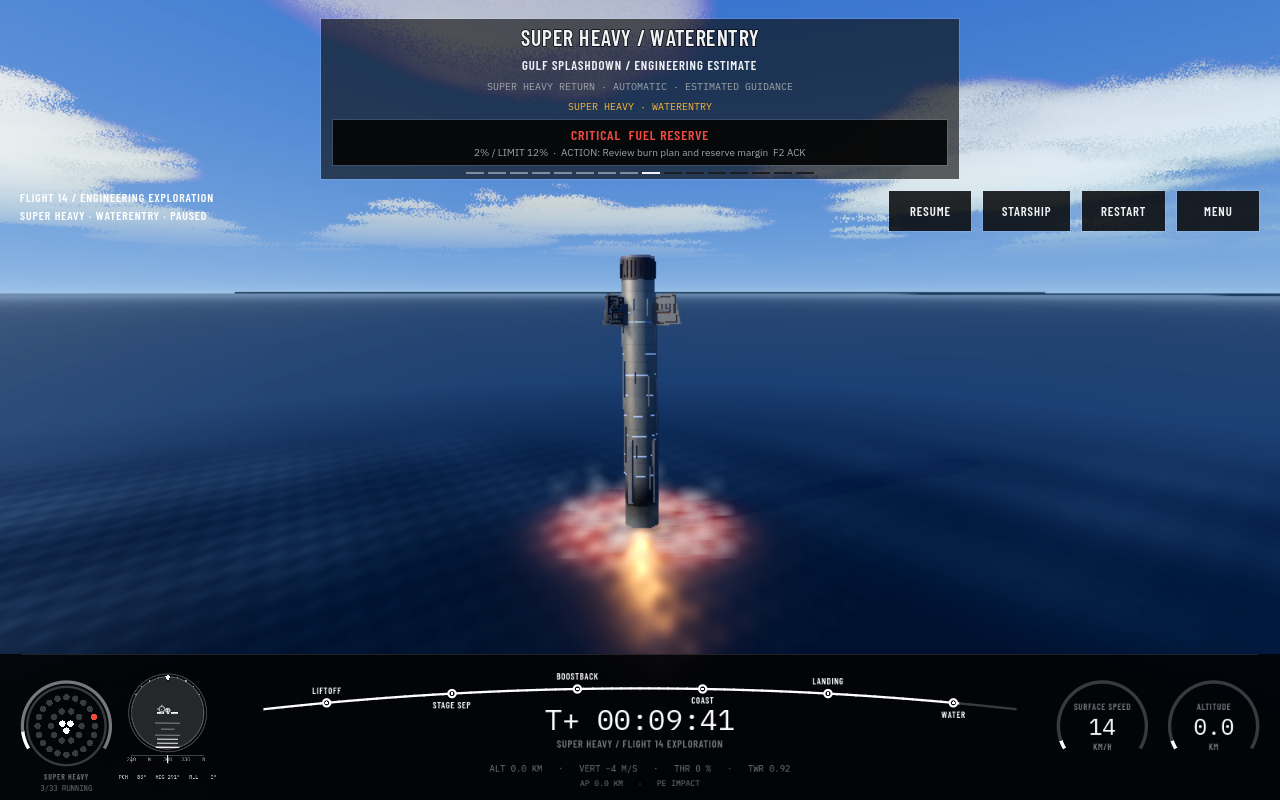
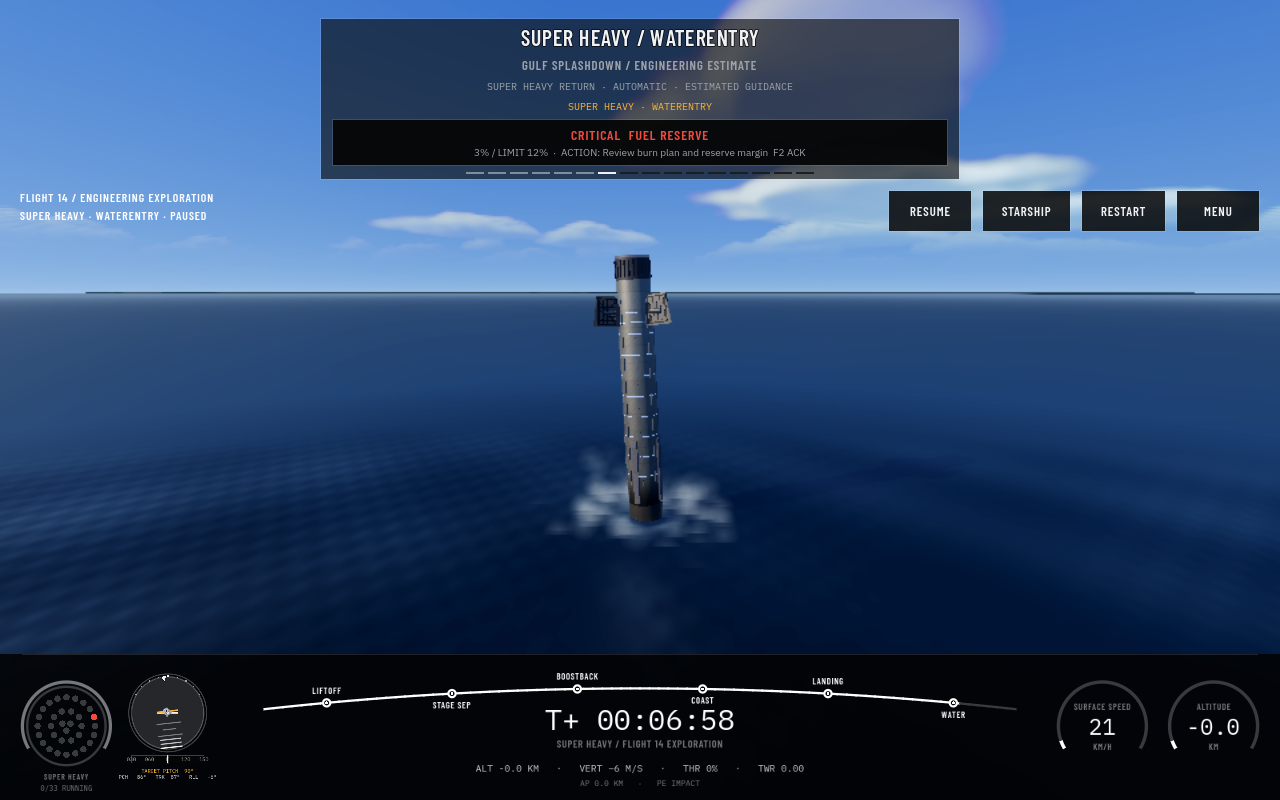
fix(flight14): constrain booster coast and stabilize landing

diff --git a/ExosphereSimulation.Tests/Flight14BoosterReturnTests.cs b/ExosphereSimulation.Tests/Flight14BoosterReturnTests.cs
@@ -6,6 +6,7 @@ using Exosphere.Simulation.Flight;
 using Exosphere.Simulation.Math;
 using Exosphere.Simulation.Parts;
 using Exosphere.Simulation.Persistence;
+using Exosphere.Simulation.Presentation;
 using Xunit;
 using Xunit.Abstractions;
 
@@ -30,6 +31,9 @@ public sealed class Flight14BoosterReturnTests(ITestOutputHelper output)
         double previousFuel = part.LiquidFuel+part.Oxidizer;
         var deliveredLandingCounts = new HashSet<int>();
         int minimumSelected = 11;
+        double maximumAltitude = 0, deliveredThreeEngineSeconds = 0;
+        bool observedBoostbackThrottle = false;
+        var presenter = new FlightHudPresenter();
         for (int step = 0; step < 100000 && run.Controller.Phase != Flight14LaunchPhase.Blocked
             && !(run.Controller.Phase == Flight14LaunchPhase.OrbitReady && controller.IsStopped); step++)
         {
@@ -38,6 +42,17 @@ public sealed class Flight14BoosterReturnTests(ITestOutputHelper output)
             Assert.False(run.Ship.IsDestroyed);
             Assert.True(part.LiquidFuel+part.Oxidizer <= previousFuel+1e-6);
             previousFuel = part.LiquidFuel+part.Oxidizer;
+            if (controller.Booster is { } observed && !controller.IsStopped)
+                maximumAltitude = System.Math.Max(maximumAltitude, observed.GetAltitude(run.Earth));
+            if (!observedBoostbackThrottle && controller.HasDeliveredBoostbackEngines
+                && controller.Phase == Flight14BoosterReturnPhase.Boostback)
+            {
+                var snapshot = presenter.Capture(universe, controller.Booster!, "BOOSTBACK", FlightHudViewMode.Exterior);
+                Assert.Equal(controller.Booster!.Id, snapshot.VesselId);
+                Assert.Equal(controller.Booster.Throttle, snapshot.Throttle);
+                Assert.InRange(snapshot.Throttle, 0.4, 1);
+                observedBoostbackThrottle = true;
+            }
             if (controller.Phase is Flight14BoosterReturnPhase.Flip or Flight14BoosterReturnPhase.Boostback or Flight14BoosterReturnPhase.Coast)
             {
                 Assert.InRange(part.LiquidFuel, reserveLF-1e-6, double.MaxValue);
@@ -53,6 +68,7 @@ public sealed class Flight14BoosterReturnTests(ITestOutputHelper output)
                 minimumSelected = part.SelectedEngineCount;
                 int running = part.GetEngineTelemetry(controller.Booster!.GetAmbientPressure(run.Earth)).Count(e => e.State == Exosphere.Simulation.Propulsion.EngineLifecycleState.Running && e.ThrustN > 1);
                 if (running == part.SelectedEngineCount) deliveredLandingCounts.Add(running);
+                if (running == 3) deliveredThreeEngineSeconds += 0.02;
             }
         }
         Assert.Equal(Flight14LaunchPhase.OrbitReady, run.Controller.Phase);
@@ -71,6 +87,12 @@ public sealed class Flight14BoosterReturnTests(ITestOutputHelper output)
         var contact = Assert.Single(controller.Events.Where(e => e.Phase == Flight14BoosterReturnPhase.WaterEntry));
         Assert.InRange(contact.AirspeedMps, 0, 8);
         Assert.True(contact.VerticalSpeedMps < 0);
+        // Broad engineering regression envelopes, not measured Flight 14 tolerances.
+        // Reject the former 207 km apogee / T+582 return and instant final relight.
+        Assert.InRange(maximumAltitude, 80_000, 115_000);
+        Assert.InRange(contact.MissionElapsedSeconds, 380, 460);
+        Assert.InRange(deliveredThreeEngineSeconds, 1, 30);
+        Assert.True(observedBoostbackThrottle);
         Assert.InRange(contact.LatitudeDegrees, 23, 29); Assert.InRange(contact.LongitudeDegrees, -97.25, -90);
         Assert.True(controller.Booster.WaterMotionEnabled);
         Assert.NotNull(controller.Booster.LastWaterMotionTelemetry);
@@ -83,6 +105,22 @@ public sealed class Flight14BoosterReturnTests(ITestOutputHelper output)
         output.WriteLine($"Booster: boostback cutoff T+{cutoff.MissionElapsedSeconds:F2}; water T+{contact.MissionElapsedSeconds:F2}; "
             + $"speed={contact.AirspeedMps:F3}m/s latitude={contact.LatitudeDegrees:F6} longitude={contact.LongitudeDegrees:F6}; "
             + $"ship orbit T+{run.Controller.OrbitElapsedSeconds:F2}");
+    }
+
+    [Theory]
+    [InlineData(double.NaN, 1.3)]
+    [InlineData(double.PositiveInfinity, 1.3)]
+    [InlineData(6000, 1.3)]
+    [InlineData(102000, double.NaN)]
+    [InlineData(102000, 0.99)]
+    [InlineData(102000, 2.01)]
+    public void ReturnEstimateRejectsInvalidApogeeAndBrakingEnvelope(double apogee, double margin)
+    {
+        var definition = Flight14BoosterReturnDefinition.LoadFromJson(
+            Path.Combine(DataDirectory(), "flight_profiles/starship_flight14_booster_return_estimate.json"));
+        definition.EstimatedCoastApogeeM = apogee;
+        definition.LandingBrakingMargin = margin;
+        Assert.Throws<InvalidDataException>(() => definition.Validate());
     }
 
     [Fact]

diff --git a/ExosphereSimulation/Flight/Flight14BoosterReturnController.cs b/ExosphereSimulation/Flight/Flight14BoosterReturnController.cs
@@ -180,7 +180,7 @@ public sealed class Flight14BoosterReturnController : IPhysicsStepController
         // stop, excess propellant consumption and a climb before water contact.
         double aerodynamicUpForce = booster.ComputeDrag(_body).Dot(up);
         double forceWithoutAerodynamics = booster.TotalMass*(gravity
-            + System.Math.Max(0, vertical*vertical-_definition.TargetContactSpeedMps*_definition.TargetContactSpeedMps)
+            + _definition.LandingBrakingMargin*System.Math.Max(0, vertical*vertical-_definition.TargetContactSpeedMps*_definition.TargetContactSpeedMps)
                 /(2*System.Math.Max(1, clearance)))/alignment;
         double force = System.Math.Max(0, forceWithoutAerodynamics-aerodynamicUpForce/alignment);
         // One continuous ignition, monotone 11 -> 5 -> 3. Require delivered thrust
@@ -202,7 +202,12 @@ public sealed class Flight14BoosterReturnController : IPhysicsStepController
         booster.Throttle = engine.ApplyThrottleFloor(System.Math.Max(engine.Definition.MinThrottle, force/System.Math.Max(1, rated)));
         double tiltLimit = System.Math.Tan(_definition.MaximumLandingTiltDegrees*MathUtils.DEG_TO_RAD)
             *System.Math.Clamp(clearance/100, 0, 1);
-        double tilt = System.Math.Min(tiltLimit, _definition.HorizontalDampingPerSecond*horizontal.Magnitude/gravity);
+        // Lateral damping acts through engine thrust, not gravity. Using g
+        // here overcommands tilt during the high-thrust braking segment and
+        // can reverse the horizontal error faster than attitude can follow.
+        double thrustAcceleration = System.Math.Max(gravity, rated*booster.Throttle/booster.TotalMass);
+        double tilt = System.Math.Min(tiltLimit,
+            _definition.HorizontalDampingPerSecond*horizontal.Magnitude/thrustAcceleration);
         Aim((up-horizontal.Normalized*tilt).Normalized);
     }
 
@@ -237,7 +242,19 @@ public sealed class Flight14BoosterReturnController : IPhysicsStepController
             desiredHorizontal = (horizontalOffset-horizontal*burnTime*0.5)/(coastTime+burnTime*0.5);
             ratio = System.Math.Min(0.95, (desiredHorizontal-horizontal).Magnitude/System.Math.Max(1, deltaV));
         }
-        var aim = ((desiredHorizontal-horizontal).Normalized*ratio+up*System.Math.Sqrt(1-ratio*ratio)).Normalized;
+        // Consuming the main feed does not justify converting every unused
+        // horizontal delta-v into altitude. Bound the upward impulse by an
+        // estimated coast apogee, using finite-burn travel and gravity losses.
+        // This changes an attitude command, never the propagated flight state.
+        double halfGravityBurn = 0.5*gravity*burnTime;
+        double targetEndVertical = -halfGravityBurn+System.Math.Sqrt(System.Math.Max(0,
+            halfGravityBurn*halfGravityBurn+2*gravity*(_definition.EstimatedCoastApogeeM
+                -altitude-0.5*vertical*burnTime)));
+        double maximumUpFraction = System.Math.Clamp(
+            (targetEndVertical-vertical+gravity*burnTime)/System.Math.Max(1, deltaV), 0, 1);
+        double upFraction = System.Math.Min(System.Math.Sqrt(1-ratio*ratio), maximumUpFraction);
+        var aim = ((desiredHorizontal-horizontal).Normalized*System.Math.Sqrt(1-upFraction*upFraction)
+            +up*upFraction).Normalized;
         if (aim.MagnitudeSquared < 1e-12) aim = up;
         return aim;
     }

diff --git a/ExosphereSimulation/Flight/Flight14BoosterReturnDefinition.cs b/ExosphereSimulation/Flight/Flight14BoosterReturnDefinition.cs
@@ -12,11 +12,13 @@ public sealed class Flight14BoosterReturnDefinition
     public double TargetLatitudeDegrees { get; set; }
     public double TargetLongitudeDegrees { get; set; }
     public double BoostbackThrottle { get; set; }
+    public double EstimatedCoastApogeeM { get; set; }
     public double MinimumFlipAlignment { get; set; }
     public double PointingGain { get; set; }
     public double PointingDamping { get; set; }
     public double MaximumReturnSeconds { get; set; }
     public double LandingArmAltitudeM { get; set; }
+    public double LandingBrakingMargin { get; set; }
     public double TargetContactSpeedMps { get; set; }
     public double HorizontalDampingPerSecond { get; set; }
     public double MaximumLandingTiltDegrees { get; set; }
@@ -42,7 +44,7 @@ public sealed class Flight14BoosterReturnDefinition
     public void Validate()
     {
         double[] positive = [LandingReserveKg, PointingGain, PointingDamping,
-            MaximumReturnSeconds, LandingArmAltitudeM, TargetContactSpeedMps,
+            MaximumReturnSeconds, EstimatedCoastApogeeM, LandingArmAltitudeM, TargetContactSpeedMps,
             HorizontalDampingPerSecond, MaximumLandingTiltDegrees,
             MaximumContactSpeedMps, WaterDensityKgPerM3, WaterDragCoefficient, WettingDepthM, WaterObservationSeconds];
         double[] coordinates = [TargetLatitudeDegrees, TargetLongitudeDegrees, MinimumWaterLatitudeDegrees,
@@ -52,6 +54,8 @@ public sealed class Flight14BoosterReturnDefinition
             || !double.IsFinite(BoostbackThrottle) || BoostbackThrottle <= 0 || BoostbackThrottle > 1
             || !double.IsFinite(MinimumFlipAlignment) || MinimumFlipAlignment <= 0 || MinimumFlipAlignment >= 1
             || !double.IsFinite(LowestPointYM) || LowestPointYM >= 0 || MaximumLandingTiltDegrees >= 45
+            || !double.IsFinite(LandingBrakingMargin) || LandingBrakingMargin < 1 || LandingBrakingMargin > 2
+            || EstimatedCoastApogeeM <= LandingArmAltitudeM
             || TargetContactSpeedMps >= MaximumContactSpeedMps
             || MinimumWaterLatitudeDegrees < -90 || MaximumWaterLatitudeDegrees > 90
             || MinimumWaterLongitudeDegrees < -180 || MaximumWaterLongitudeDegrees > 180

diff --git a/scripts/FlightBroadcastHUD.cs b/scripts/FlightBroadcastHUD.cs
@@ -25,6 +25,7 @@ public partial class FlightBroadcastHUD : Control
     private bool _starship;
     private (string Label, string Event)[] _milestones = Milestones;
     private static readonly Color Dim = new(0.46f, 0.47f, 0.49f);
+    private static readonly Color Readout = new(0.78f, 0.79f, 0.81f);
     private static readonly Color Track = new(0.22f, 0.23f, 0.24f);
     private static readonly (string Label, string Event)[] Milestones =
     {
@@ -200,8 +201,8 @@ public partial class FlightBroadcastHUD : Control
         Text(clock, new Vector2(width * 0.5f, 95), 36, Colors.White, mono: true);
         Text(_vehicleLabel, new Vector2(width * 0.5f, 117), 13, Dim, maxWidth: width - 680);
         string orbit = s.IsImpactTrajectory ? "PE IMPACT" : $"PE {Distance(s.PeriapsisAltitudeM)}";
-        Text($"ALT {Distance(s.AltitudeM)}   ·   VERT {s.VerticalSpeedMps:+0;−0;0} M/S   ·   THR {s.Throttle:P0}   ·   TWR {s.ThrustToWeightRatio:0.00}",
-            new Vector2(width * 0.5f, 147), 11, Dim, mono: true);
+        Text($"ALT {Distance(s.AltitudeM)}   ·   VERT {s.VerticalSpeedMps:+0;−0;0} M/S   ·   THR {s.Throttle * 100:0}%   ·   TWR {s.ThrustToWeightRatio:0.00}",
+            new Vector2(width * 0.5f, 147), 12, Readout, mono: true);
         Text($"AP {Distance(s.ApoapsisAltitudeM)}   ·   {orbit}", new Vector2(width * 0.5f, 165), 10, Dim, mono: true);
         DrawGauge(new Vector2(width - 222, 90), "SURFACE SPEED", $"{s.SurfaceSpeedMps * 3.6:0}", "KM/H",
             (float)System.Math.Clamp(s.SurfaceSpeedMps / 8000.0, 0, 1));
@@ -267,6 +268,7 @@ public partial class FlightBroadcastHUD : Control
         ["left_ids"] = (_leftBoard?.Engines.Select(e => e.Id) ?? Array.Empty<string>()).ToArray(),
         ["right_ids"] = (_rightBoard?.Engines.Select(e => e.Id) ?? Array.Empty<string>()).ToArray(),
         ["stage_count"] = _boards.Count,
+        ["commanded_throttle"] = _snapshot?.Throttle ?? 0,
     };
 
     private void DrawEngine(Vector2 point, string id, float radius)

diff --git a/ExosphereSimulation.Tests/FlightHudPresenterTests.cs b/ExosphereSimulation.Tests/FlightHudPresenterTests.cs
@@ -43,6 +43,22 @@ public sealed class FlightHudPresenterTests
             Assert.Single(descending.Alerts, a => a.Code == "TRAJECTORY").Severity);
     }
 
+    [Fact]
+    public void ControlledReturnClearsEarlierImpactLatchAndUncontrolledCoastWarnsAgain()
+    {
+        var (universe, body, vessel, _) = CreateVehicle();
+        vessel.Position = body.GetPositionAlongDirection(Vector3d.Right, 8_000.0);
+        vessel.Velocity = body.Velocity + new Vector3d(-100.0, 0.0, 300.0);
+        var presenter = new FlightHudPresenter();
+        var uncontrolled = presenter.Capture(universe, vessel, "COAST", FlightHudViewMode.Exterior);
+        Assert.Contains(uncontrolled.Alerts, a => a.Code == "TRAJECTORY");
+        var controlled = presenter.Capture(universe, vessel, "AERO_DESCENT", FlightHudViewMode.Exterior);
+        Assert.True(controlled.IsImpactTrajectory);
+        Assert.DoesNotContain(controlled.Alerts, a => a.Code == "TRAJECTORY");
+        var relinquished = presenter.Capture(universe, vessel, "COAST", FlightHudViewMode.Exterior);
+        Assert.Contains(relinquished.Alerts, a => a.Code == "TRAJECTORY");
+    }
+
     [Theory]
     [InlineData("ENTRY")]
     [InlineData("PEAK_HEATING")]

diff --git a/tools/Flight14TrajectoryProbe/Flight14BoosterProbe.cs b/tools/Flight14TrajectoryProbe/Flight14BoosterProbe.cs
@@ -48,6 +48,7 @@ internal static class Flight14BoosterProbe
                 propellantKg = engine.LiquidFuel+engine.Oxidizer,
                 protectedLandingPropellantKg = engine.ReservedLiquidFuel+engine.ReservedOxidizer,
                 availableFeedOxidizerKg = engine.AvailableOxidizer,
+                commandedThrottle = vessel.Throttle,
                 selectedEngines = engine.SelectedEngineCount,
                 runningEngines = engine.GetEngineTelemetry(vessel.GetAmbientPressure(run.Earth)).Count(e => e.State == Exosphere.Simulation.Propulsion.EngineLifecycleState.Running && e.ThrustN > 1),
                 angularRateRadPerSecond = vessel.AngularVelocity.Magnitude,

diff --git a/ExosphereSimulation/Presentation/FlightHudPresenter.cs b/ExosphereSimulation/Presentation/FlightHudPresenter.cs
@@ -351,7 +351,7 @@ public sealed class FlightHudPresenter
         bool trajectoryWarningActive = activeFlight
             && impactTrajectory
             && !IsControlledDescentPhase(phase);
-        SetLatch("TRAJECTORY", trajectoryWarningActive, !impactTrajectory);
+        SetLatch("TRAJECTORY", trajectoryWarningActive, !impactTrajectory || IsControlledDescentPhase(phase));
         if (_latchedAlerts.Contains("TRAJECTORY"))
         {
             // An osculating orbit assumes thrust stops now. Below-surface periapsis

diff --git a/docs/audits/flight14_booster_calibration_2026-10-03.md b/docs/audits/flight14_booster_calibration_2026-10-03.md
@@ -1,0 +1,65 @@
+# Flight 14 Super Heavy guidance calibration — 2026-10-03
+
+This increment follows [the independent return implementation](flight14_booster_return_2026-10-03.md). That audit records the earlier T+582 s / 207 km baseline; its numbers are historical evidence, not this revision's result.
+
+## Reference and acceptance scope
+
+Two additional paused frames of the [user-provided rebroadcast](https://www.youtube.com/watch?v=lw0nj_XiUoU) are manually transcribed in [the browser anchor file](../research/STARSHIP_FLIGHT14_BOOSTER_BROWSER_ANCHORS_2026-10-03.json): T+248 s displays 98.8 km and 1010 km/h for Super Heavy; T+308 s displays 78.5 km and 2510 km/h. Only the explicitly labelled left-hand booster speed display is used. The right-hand speed instrument belongs to Starship. Browser screenshot hashes identify the local evidence separately from the earlier downloaded video track. Display datum, rounding, velocity frame and feed latency are unknown.
+
+The [SpaceX postflight account](https://www.spacex.com/launches/starship-flight-14%20) supports 31-engine boostback until main-tank LOX exhaustion, 11 → 5 → 3 successful landing engines, Gulf splashdown and subsequent FTS. Its approximate planned clocks do not prove measured ignition/contact timing. A 0.0 km broadcast readout does not certify contact.
+
+## Physical cause and control change
+
+The former boostback solver converted ideal delta-v left after its horizontal targeting estimate into upward thrust. With the inherited stage inventory, this produced a 207 km apogee and prolonged coast. The new attitude command bounds that upward component using an estimated coast-apogee parameter and finite-burn travel/gravity losses. For remaining burn duration t, start vertical speed v and local gravity g, the approximate end speed w solves `H = h + (v+w)t/2 + w²/(2g)`. The allowed upward impulse fraction is `(w-v+gt)/deltaV`, bounded to [0,1] and capped against the existing targeting direction. This is an open-loop steering estimate, not a hard altitude constraint or a reconstructed reference trajectory. Flip travel, variable mass/thrust, curvature and drag leave residual errors.
+
+The current profile uses a 102 km guidance parameter, 6 km nominal landing arming altitude and 1.3 braking margin. These are explicitly estimated control settings. Stopping distance and startup travel can arm braking sooner than the nominal altitude. The braking margin reduces the demand before final monotone engine downselection; it changes thrust commands, not acceleration or velocity directly.
+
+Horizontal damping now divides requested lateral acceleration by commanded thrust acceleration instead of gravity. The earlier gravity denominator overcommanded tilt during high-thrust braking: the same candidate reached water at 7.81 m/s, mostly lateral. Correcting the denominator reduces contact speed to 2.45 m/s. Existing attitude/gimbal response, lifecycle, pressure-corrected thrust, gravity and aerodynamic coefficients remain authoritative.
+
+Neither total launch loading nor the protected 200 t landing resource partition changes. The partition remains a major unvalidated hardware assumption, not measured header-tank capacity. No pose, velocity or trajectory is assigned by guidance; no timed contact/shutdown is inserted. Ship ownership and its independent mission continue.
+
+## Continuous moving-Earth evidence
+
+Run the original loaded stack, without an entry seed:
+
+```bash
+dotnet run --project tools/Flight14TrajectoryProbe/Flight14TrajectoryProbe.csproj -- data exports/flight14-booster-calibration/final-candidate --booster
+```
+
+The probe now records commanded throttle alongside delivered engine counts. Original-stage witnesses:
+
+| Event | Earlier baseline MET / height | This increment MET / height |
+|---|---:|---:|
+| Separation | 142.02 s / 46.36 km | 142.02 s / 46.36 km |
+| Boostback main-feed cutoff | 173.42 s / 72.52 km | 174.18 s / 64.94 km |
+| Coast apogee | 207.0 km | 96.95 km |
+| Landing arming | 542.16 s / 25.39 km | 397.06 s / 5.99 km |
+| Select five engines | 557.80 s / 5.64 km | 410.52 s / 0.409 km |
+| Select three engines | 578.34 s / 0.126 km | 415.32 s / 0.042 km |
+| Accepted water entry | 581.92 s | 418.38 s |
+| Abstracted FTS retirement | 584.94 s | 421.40 s |
+
+This probe's contact witness is 2.437 m/s; the following per-step sample prints 2.45 m/s. Contact is descending, near 25.8456° N, 96.7969° W, with approximately 125.4 t remaining propellant. The difference between a transition witness and the following integrated sample is intentional. These are simulation results, not flown measurements.
+
+| Broadcast MET | Booster reference altitude / speed | Model altitude / atmosphere-relative speed |
+|---|---:|---:|
+| 248 s | 98.8 km / 1010 km/h | 96.64 km / 1236 km/h |
+| 308 s | 78.5 km / 2510 km/h | 84.11 km / 2149 km/h |
+| 393 s | 4.1 km, board unlit | 9.56 km, before delivered landing thrust |
+| 398 s | 2.4 km, board lit | 5.25 km, landing commanded |
+| 403 s | 1.2 km, board lit | 2.39 km, landing commanded |
+| 408 s | 0.5 km, board lit | 0.84 km, landing commanded |
+| 413 s | 0.1 km, board lit | 0.16 km, five selected |
+| 418 s | 0.0 km, board lit | 0.003 km, three selected |
+
+Height/time agreement improves substantially; exact reference reconstruction is NOT established. Boostback still ends earlier than the published planned cutoff, and the middle descent remains too high. Exact ignition/transitions, protected inventory and target location need joint calibration with resolved engine/fuel and grid-fin aerodynamics. Similar final clocks do not validate those assumptions.
+
+## Validation
+
+The moving-Earth behavior gate checks original-stage continuity, monotone consumed inventory, isolated reserve, delivered 31 and 11/5/3 thrust, descending landing without a climb, at least one second of delivered three-engine braking, low-speed regional contact and continuing Starship orbital insertion. Broad apogee/contact-time regression bounds reject the former trajectory without claiming reference measurement tolerances. Contract cases reject nonfinite apogee/braking settings, an apogee below landing altitude and margins outside [1,2]. Booster observation also checks the snapshot's vessel identity and actual commanded throttle.
+
+The live boostback diagnostic verifies vessel throttle = HUD snapshot throttle = 0.6; there is no reproduced zero-throttle control fault in this revision. Broadcast telemetry is brighter/larger, and explicit numeric percent formatting avoids locale-dependent spacing. The diagnostic instrument state exposes commanded throttle separately from delivered engine-board brightness. The real scene also revealed that an earlier trajectory alert remained latched despite an already-supported controlled-descent phase. That phase now clears the latch; an uncontrolled-coast transition still raises it again, covered by a regression test.
+
+Targeted booster checks pass: 11 cases. The production framebuffer sequence completes all seven milestones using the original loaded mission. Actual command and HUD snapshot agree at boostback (0.6), eleven-engine braking (0.4), three-engine braking (approximately 0.98) and cutoff (0). The refreshed gallery frame is T+418.84 s, after accepted contact; its 21 km/h display is subsequent water motion, not the 2.437 m/s transition witness. The stale coast alert is visibly cleared. Camera-return logging observes Starship continuing at T+471.42 s; that unpaused frame's HUD shows T+449 s. The helper sampled after the last rendered snapshot, so this frame proves camera return/continued ascent, not synchronized trajectory telemetry. The retained water gallery is captured while paused. Temporary helpers are removed and `project.godot` is unchanged.
+
+`bash tools/ci_check.sh` exits zero: **1044 passed, zero failed, zero skipped**, with the test phase taking 24 m 55 s. Simulation, game and probe builds report zero warnings/errors. Flight startup, main-menu/construction smoke and graphics-menu checks pass. The full moving-Earth Flight 14 test includes the continuing ship's payload/return/water observation alongside the independent booster; it is a model-behavior gate, not reference-fidelity acceptance. The clean game build after helper removal also reports zero warnings/errors. All captured production source hashes still match the final code.

diff --git a/README.md b/README.md
@@ -32,6 +32,10 @@ Captured from the current simulator on 2026-10-03. Prepared scenes and the water
 
 *Seeded terminal bench after ten seconds of calculated water motion. Estimated sealed-hull heeling; flooding and real capsize timing remain unmodelled.*
 
+![Super Heavy after continuous Gulf water contact](docs/screenshots/booster-return.png)
+
+*Original detached Super Heavy shortly after estimated Gulf water contact, following continuous launch and return. Guidance calibration improves height and timing; this is still an engineering estimate.*
+
 ## Play
 
 | Need | Version |
@@ -89,7 +93,7 @@ Warp levels are `1`, `2`, `3`, `5`, `10`, `50`, `100`, `1000`, `10000`, and `100
 ## What you can fly
 
 - **Free Flight** offers ten launch vehicle presets: Starship Flight 7/12, Falcon 9 standard/extended fairings, New Glenn, Mercury-Redstone, Mercury-Atlas, Titan II, and Saturn V Apollo 8/11. Each opens at a compatible home pad with manual control.
-- **Explore Flight 14** opens a briefing with **Start Exploration**. It runs the current estimated loaded mission automatically from Starbase Pad 2 through insertion, 26 satellite deployments, deorbit, entry and the terminal burn. Camera, map, pause/resume, restart and time acceleration (up to x200; actual acceleration depends on CPU capacity and the per-frame work budget) remain available. The preview continues beyond its retained 100 m diagnostic through an estimated low-speed water entry in a bounded northern Pacific region, then freezes after ten seconds of coupled mass-centre translation/rotation under buoyancy and drag. This shows estimated sealed-hull heeling; exact targeting, flooding and measured capsize timing remain pending. After separation, **SUPER HEAVY** follows the independently propagated booster through estimated boostback, 11 → 5 → 3 engine landing and Gulf water contact; **STARSHIP** returns to the continuing ship. Booster observation pauses at the abstracted FTS boundary. Its protected feed inventory, targeting and event clocks remain engineering estimates; [return audit](docs/audits/flight14_booster_return_2026-10-03.md). Flight controls and quicksave/load are unavailable in this automatic preview.
+- **Explore Flight 14** opens a briefing with **Start Exploration**. It runs the current estimated loaded mission automatically from Starbase Pad 2 through insertion, 26 satellite deployments, deorbit, entry and the terminal burn. Camera, map, pause/resume, restart and time acceleration (up to x200; actual acceleration depends on CPU capacity and the per-frame work budget) remain available. The preview continues beyond its retained 100 m diagnostic through an estimated low-speed water entry in a bounded northern Pacific region, then freezes after ten seconds of coupled mass-centre translation/rotation under buoyancy and drag. This shows estimated sealed-hull heeling; exact targeting, flooding and measured capsize timing remain pending. After separation, **SUPER HEAVY** follows the independently propagated booster through estimated boostback, 11 → 5 → 3 engine landing and Gulf water contact; **STARSHIP** returns to the continuing ship. Booster observation pauses at the abstracted FTS boundary. Its protected feed inventory, targeting and event clocks remain engineering estimates; [return audit](docs/audits/flight14_booster_return_2026-10-03.md) and [guidance calibration](docs/audits/flight14_booster_calibration_2026-10-03.md). Flight controls and quicksave/load are unavailable in this automatic preview.
 - **Scenarios** includes Falcon 9 from Kennedy, New Glenn from Cape Canaveral, Starship Flight 7, Starship Flight 12, and a Starship entry from 70 km.
 - **Historical Campaign** lists sixteen planned missions. Briefings show objectives, flight limits, progress and prerequisites. Playable definitions currently cover Freedom 7, Friendship 7, Gemini VIII, Apollo 8 and partial Apollo 11; the remaining entries are marked as planned.
 - **Vehicle Assembly** builds a craft from the parts catalog and launches it to the pad.

diff --git a/docs/screenshots/README.md b/docs/screenshots/README.md
@@ -60,20 +60,32 @@ in `exports/flight14-water-motion-review/`. These ignored directories are review
 artifacts; temporary scripts/autoloads are not part of the shipped game.
 The published PNG checksums are in [manifest.json](manifest.json).
 
-## Independent Super Heavy return addition
+## Independent Super Heavy return refresh
 
 `booster-return.png` is an unedited 1280 × 800 production framebuffer captured on
-2026-10-03 from the working tree based on `91dd7b7`, including the independent
-booster implementation committed with this gallery addition. The original six
-images above keep their source revision and provenance. This capture uses the
-IntegratedGpu profile with software OpenGL Compatibility under Xvfb. It shows
-water entry after continuous simulation from the original loaded launch stack;
-it is not a seeded terminal scene or a reconstruction of the flown trajectory.
+2026-10-03 from the working tree based on `a2d6ce3`, including this increment's
+boostback/landing calibration and HUD correction. The original six images above
+retain their source revision and provenance. This frame replaces only the earlier
+booster addition; its prior sequence remains local evidence in
+`exports/flight14-booster-return-review/`.
 
-The completed seven-frame sequence witnesses boostback, coast, ignition,
-three-engine braking, contact, abstracted FTS retirement, and return of camera/HUD
-to the continuing Starship. Landing uses requested 3x warp and water observation
-1x; production physics retains whole 20 ms steps. Local capture scripts, console
-log and hashes are in `exports/flight14-booster-return-review/`. The timing,
-protected fuel budget, distant surface silhouette, cloud spacing and near-water
-visual fidelity remain bounded as described in [the booster audit](../audits/flight14_booster_return_2026-10-03.md).
+The IntegratedGpu preset uses software OpenGL Compatibility under Xvfb. The
+frame is at T+418.84 s, shortly after continuously simulated water contact;
+it is not a seeded terminal scene or the exact transition witness. Engine
+shutdown is commanded and the sealed-hull water response has already begun.
+
+The seven-frame sequence captures boostback (THR 60%), coast with the stale
+impact alert cleared, eleven-engine ignition, three delivered landing engines,
+water observation, abstracted FTS retirement and camera/HUD return to the
+continuing Starship. Landing uses requested 3x warp and water observation 1x;
+whole 20 ms physics steps remain authoritative.
+
+Local console log, source-file hashes, screenshot hashes and temporary helper
+backups are in `exports/flight14-booster-calibration/`. The helper scripts were
+removed after capture; `project.godot` was never modified. Gallery SHA-256:
[1 lines of base64/hex data omitted]
+
+The timing and height improvement does not establish exact flown targeting,
+header inventory, engine-transition timing or ocean appearance. Distant surface
+silhouette, cloud spacing and water spray remain visual limitations. See
+[the calibration audit](../audits/flight14_booster_calibration_2026-10-03.md).

diff --git a/CLAUDE.md b/CLAUDE.md
@@ -152,7 +152,7 @@ The default Starship stack uses `decoupler_heavy`, not `decoupler_medium`, becau
 - CI builds/tests the sim, builds the Godot C# layer, downloads Godot 4.6.3 mono in GitHub Actions, and runs strict headless smoke checks. Local `tools/ci_check.sh` runs Godot smoke only when `GODOT_BIN` or the default local Godot path exists.
 - Godot `--headless` in this environment uses a dummy renderer, so viewport PNG capture needs a real framebuffer.
 - Current product priority after documentation cleanup: visual fidelity against real Starship/Super Heavy references. Prefer scoped improvements to `VesselRenderer`, `ReentryPlasmaController`, `PlumeSystem`, camera/lighting, and visual capture before broad new gameplay systems.
-- Flight 14 exploration now continues beyond its retained 100 m witness to estimated low-speed water entry, then freezes after ten seconds of water-only coupled mass-centre translation/rotation. Inclined sealed-cylinder buoyancy and projected wet-section drag are opt-in and region-gated; the global ascent/EDL integration mode is unchanged. An independent Super Heavy engineering return now reaches Gulf water contact with selectable observation and an abstracted FTS boundary; see `docs/audits/flight14_booster_return_2026-10-03.md`. Exact targeting, flooding, measured capsize timing and booster reference-timing/trajectory calibration remain pending. See `docs/audits/flight14_water_motion_2026-10-03.md`; the earlier water-entry and inclined-water audits describe prior increments.
+- Flight 14 exploration now continues beyond its retained 100 m witness to estimated low-speed water entry, then freezes after ten seconds of water-only coupled mass-centre translation/rotation. Inclined sealed-cylinder buoyancy and projected wet-section drag are opt-in and region-gated; the global ascent/EDL integration mode is unchanged. An independent Super Heavy engineering return now reaches Gulf water contact with selectable observation and an abstracted FTS boundary; see `docs/audits/flight14_booster_return_2026-10-03.md`. Estimated booster apogee/landing guidance now improves height and timing; see `docs/audits/flight14_booster_calibration_2026-10-03.md`. Exact targeting, flooding, measured capsize timing and full booster reference-timing/trajectory calibration remain pending. See `docs/audits/flight14_water_motion_2026-10-03.md`; the earlier water-entry and inclined-water audits describe prior increments.
 - The coupled 6-DoF path remains disabled by default. Coast and simplified powered parity pass;
   Starship ascent/EDL parity and full SAS/flap/RCS equivalence are still required before activation.
 

diff --git a/docs/physics/PHYSICS_MODEL.md b/docs/physics/PHYSICS_MODEL.md
@@ -464,7 +464,12 @@ selection only for that root; the estimated +5.44 m offset is not resolved
 grid-fin actuator aerodynamics. Engine-first landing guidance subtracts actual
 aerodynamic up-force from its thrust demand and conservatively retains capacity
 for the later low-drag portion when selecting 11 → 5 → 3 engines. Actual lifecycle
-and positive thrust witness delivery. Gravity, drag coefficients and engine
+and positive thrust witness delivery. Estimated finite-burn boostback steering
+bounds upward impulse using a coast-apogee control parameter; it never clamps
+altitude or velocity. The landing deceleration margin and nominal arm altitude
+are profile estimates, with a physical stopping-distance/startup gate. Lateral
+landing damping uses commanded thrust acceleration rather than gravity.
+Gravity, drag coefficients and engine
 rating remain unchanged.
 
 Accepted water contact opts into the existing bounded sealed-hull solver for
@@ -472,4 +477,5 @@ three estimated seconds. FTS then records retirement; explosive energy, fragment
 and measured FTS delay are not simulated. The full mission and original stage
 continuity are tested; matching the flown boostback altitude, descent timing,
 landing inventory and near-water visuals remains open. See
-[the booster return audit](../audits/flight14_booster_return_2026-10-03.md).
+[the booster return audit](../audits/flight14_booster_return_2026-10-03.md) and
+[the subsequent guidance calibration](../audits/flight14_booster_calibration_2026-10-03.md).
